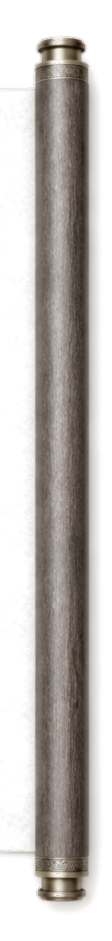
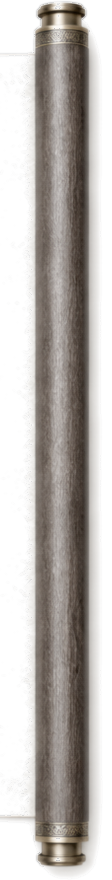
Make eight-palace scroll rollers replayable

diff --git a/liuyao-study-github/index.html b/liuyao-study-github/index.html
@@ -6,7 +6,7 @@
   <meta name="description" content="以陈师讲义为主线，结合古籍校注、万物类象与主动回忆训练的六爻学习网站。">
   <title>爻象研习 · 六爻学习系统｜旺衰、地支关系与八宫卦谱</title>
   <link rel="icon" href="data:,">
-  <link rel="stylesheet" href="./styles.css?v=20260722-palace-v4">
+  <link rel="stylesheet" href="./styles.css?v=20260722-scroll-v5">
 </head>
 <body>
   <div class="paper-noise"></div>
@@ -367,8 +367,8 @@
               </div>
             </div>
           </div>
-          <div class="scroll-roller scroll-roller-left" aria-hidden="true"></div>
-          <div class="scroll-roller scroll-roller-right" aria-hidden="true"></div>
+          <button type="button" class="scroll-roller scroll-roller-left" aria-label="重新展开八宫卦谱卷轴" title="点击重新展开卷轴"></button>
+          <button type="button" class="scroll-roller scroll-roller-right" aria-label="重新展开八宫卦谱卷轴" title="点击重新展开卷轴"></button>
         </div>
       </section>
 
@@ -502,11 +502,11 @@
     <aside><button class="drawer-close" aria-label="关闭">×</button><div id="drawerContent"></div></aside>
   </div>
   <footer><span>爻象研习 · 六爻知识体系</span><p>关系 → 结构 → 力量 → 类象 → 验证</p></footer>
-  <script src="./data.js?v=20260722-palace-v4"></script>
-  <script src="./course-0718.js?v=20260722-palace-v4"></script>
+  <script src="./data.js?v=20260722-scroll-v5"></script>
+  <script src="./course-0718.js?v=20260722-scroll-v5"></script>
   <script src="./vendor/jquery-3.7.1.min.js"></script>
   <script src="./vendor/jquery.ripples-min.js"></script>
-  <script src="./app.js?v=20260722-palace-v4"></script>
+  <script src="./app.js?v=20260722-scroll-v5"></script>
   <script>
     window.addEventListener('load', function(){
       setTimeout(function(){

diff --git a/liuyao-study-github/styles.css b/liuyao-study-github/styles.css
@@ -338,7 +338,7 @@ button,.branch-card,.map-switcher,.relationship-lab{position:relative;overflow:h
 #yao0718Stack{display:flex;flex-direction:column;gap:11px}.yao-stack button[data-yao0718]{position:relative;display:grid;grid-template-columns:minmax(125px,1fr) 40px 70px minmax(120px,1fr);align-items:center;gap:16px;min-height:62px;padding:8px 16px;border:1px solid var(--scroll-line);background:rgba(248,244,235,.68);text-align:left;overflow:hidden;transition:transform .28s ease,border-color .28s,background .28s}.yao-stack button[data-yao0718]::before{content:"";position:absolute;inset:0 auto 0 0;width:4px;background:var(--scroll-red);transform:scaleY(0);transition:transform .28s}.yao-stack button[data-yao0718] i{display:block;height:10px;background:var(--scroll-ink);mask:linear-gradient(90deg,#000 0 44%,transparent 44% 56%,#000 56%);-webkit-mask:linear-gradient(90deg,#000 0 44%,transparent 44% 56%,#000 56%)}.yao-stack button[data-yao0718]:nth-child(odd) i{mask:none;-webkit-mask:none}.yao-stack button[data-yao0718] b{color:var(--scroll-red);font-size:12px}.yao-stack button[data-yao0718] span{font:700 22px "Songti SC"}.yao-stack button[data-yao0718] small{color:var(--muted)}.yao-stack button[data-yao0718]:hover,.yao-stack button[data-yao0718].active{transform:translateX(10px);border-color:rgba(167,68,50,.45);background:#f7f1e5}.yao-stack button[data-yao0718].active::before{transform:scaleY(1)}.yao-inspector{min-height:360px;display:flex;flex-direction:column;justify-content:center;padding:clamp(30px,5vw,68px);position:relative;background:var(--scroll-ink);color:#f7f1e7;box-shadow:24px 24px 0 rgba(117,132,119,.16)}.yao-inspector::after{content:"爻";position:absolute;right:24px;bottom:-20px;font:900 150px/1 "Songti SC";color:rgba(255,255,255,.035)}.yao-inspector>span{color:#d99b89;letter-spacing:.18em}.yao-inspector h3{font-size:clamp(46px,6vw,76px);margin:20px 0 10px}.yao-inspector strong{font-size:21px}.yao-inspector p{max-width:480px;color:#cfc5b5;line-height:1.9}
 
 .scroll-atlas-shell{position:relative;margin-top:18px;isolation:isolate;overflow:visible}.scroll-unroll-mask{position:relative;margin:0 48px;overflow:hidden;clip-path:inset(0 0 0 0);filter:drop-shadow(0 28px 42px rgba(52,43,30,.16));z-index:1}.scroll-paper{position:absolute;inset:0;background:#ede7da url("./assets/scroll-paper-0718.webp") center/100% 100% no-repeat;border-block:1px solid rgba(89,76,57,.26)}.scroll-paper::after{content:"";position:absolute;inset:10px 18px;border:1px solid rgba(116,126,111,.24);box-shadow:inset 0 0 70px rgba(115,98,72,.09);pointer-events:none}.scroll-atlas-content{position:relative;z-index:2;padding:clamp(40px,4.6vw,68px) clamp(42px,5.5vw,82px);color:var(--scroll-ink)}
-.scroll-roller{position:absolute;top:-14px;bottom:-14px;width:74px;z-index:4;background-position:center;background-size:100% 100%;background-repeat:no-repeat;filter:drop-shadow(0 18px 15px rgba(42,34,25,.26));pointer-events:none}.scroll-roller-left{left:12px;background-image:url("./assets/scroll-left-roller-0718.png")}.scroll-roller-right{right:12px;background-image:url("./assets/scroll-right-roller-0718.png")}
+.scroll-roller{position:absolute;top:-18px;bottom:-18px;width:74px;padding:0;border:0;appearance:none;z-index:4;background-color:transparent;background-position:center;background-size:100% 100%;background-repeat:no-repeat;filter:drop-shadow(0 18px 15px rgba(42,34,25,.26));cursor:pointer;pointer-events:auto;transition:filter .22s ease}.scroll-roller:hover{filter:drop-shadow(0 20px 17px rgba(42,34,25,.34)) brightness(1.06)}.scroll-roller:focus-visible{outline:2px solid var(--scroll-red);outline-offset:5px;border-radius:999px}.scroll-roller-left{left:12px;background-image:url("./assets/scroll-left-roller-0718.png?v=20260722-scroll-v5")}.scroll-roller-right{right:12px;background-image:url("./assets/scroll-right-roller-0718.png?v=20260722-scroll-v5")}
 .scroll-atlas-shell.is-unrolling .scroll-unroll-mask{animation:scroll-mask-open 1.58s cubic-bezier(.62,.02,.18,1) both}.scroll-atlas-shell.is-unrolling .scroll-roller-left{animation:scroll-left-open 1.58s cubic-bezier(.62,.02,.18,1) both}.scroll-atlas-shell.is-unrolling .scroll-roller-right{animation:scroll-right-open 1.58s cubic-bezier(.62,.02,.18,1) both}
 @keyframes scroll-mask-open{0%{clip-path:inset(0 50% 0 50%)}100%{clip-path:inset(0 0 0 0)}}
 @keyframes scroll-left-open{0%{left:calc(50% - 37px)}100%{left:12px}}

diff --git a/liuyao-study-github/app.js b/liuyao-study-github/app.js
@@ -1007,6 +1007,7 @@ document.querySelectorAll("[data-cast-mode]").forEach(button=>button.addEventLis
 document.querySelector("#resetCast").addEventListener("click",()=>{state.cast=[];state.manualCoins=["字","背","字"];renderCoins();renderCast();});
 
 document.querySelectorAll("[data-map]").forEach(b=>b.addEventListener("click",()=>renderMap(b.dataset.map)));
+document.querySelectorAll("#scroll0718Shell .scroll-roller").forEach(button=>button.addEventListener("click",replay0718Scroll));
 renderPath();render0718Atlas();renderElementImages();renderWuxing();renderRelativeTransformer();renderMap();renderSeasons();renderWheel();renderTrigrams();renderBranchRelationLab();renderChangsheng();renderHiddenStems();renderLectureTables();renderSeasonNotes();renderCoins();renderCast();renderRelatives();renderTopics();renderFilters();renderBranchGrid();renderFlashcard();renderLearningTracking();initProgressDetail();updateProgress();
 initImmersiveMotion();
 if(["path","foundation","lecture0704","lecture0718","casting","branches","training"].includes(requestedInitialView))setView(requestedInitialView);